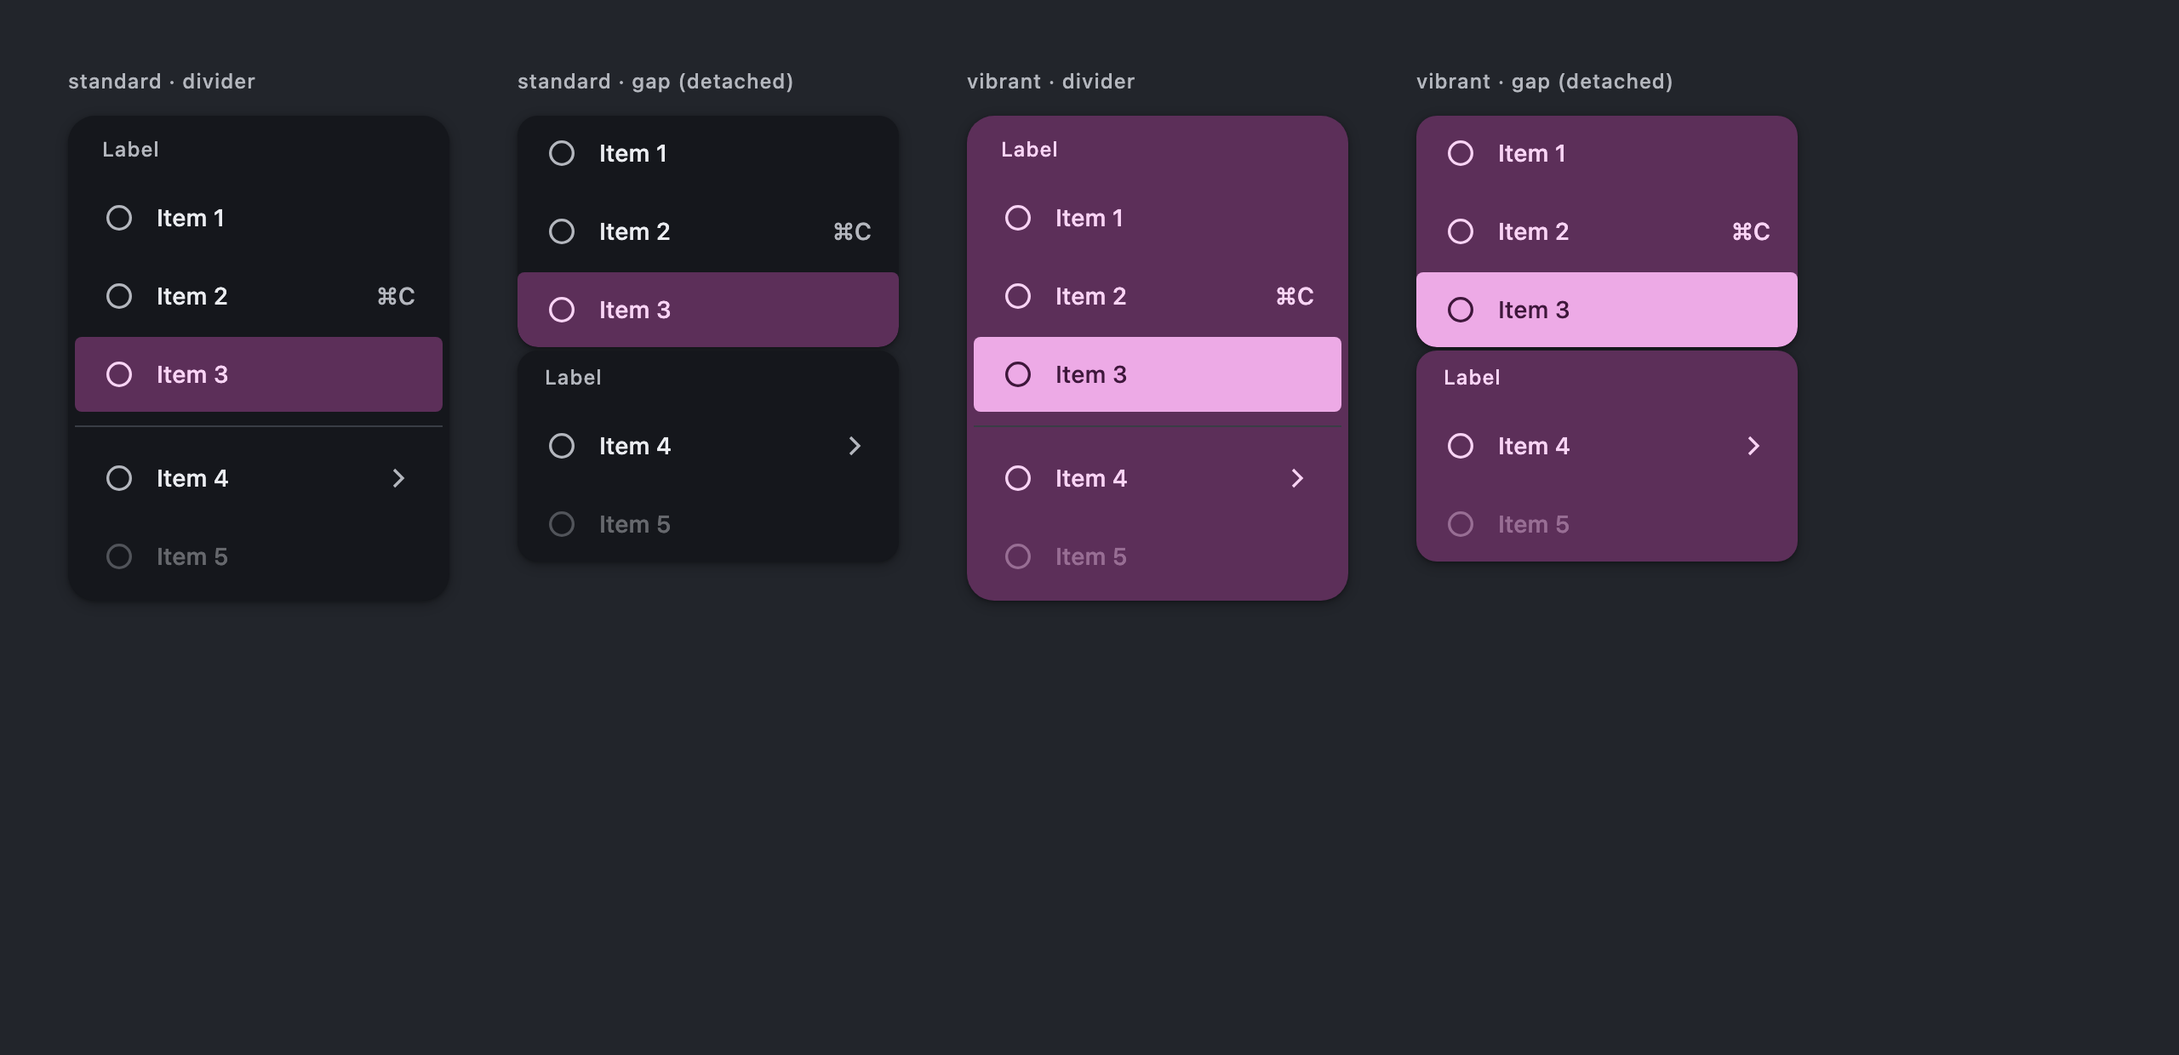
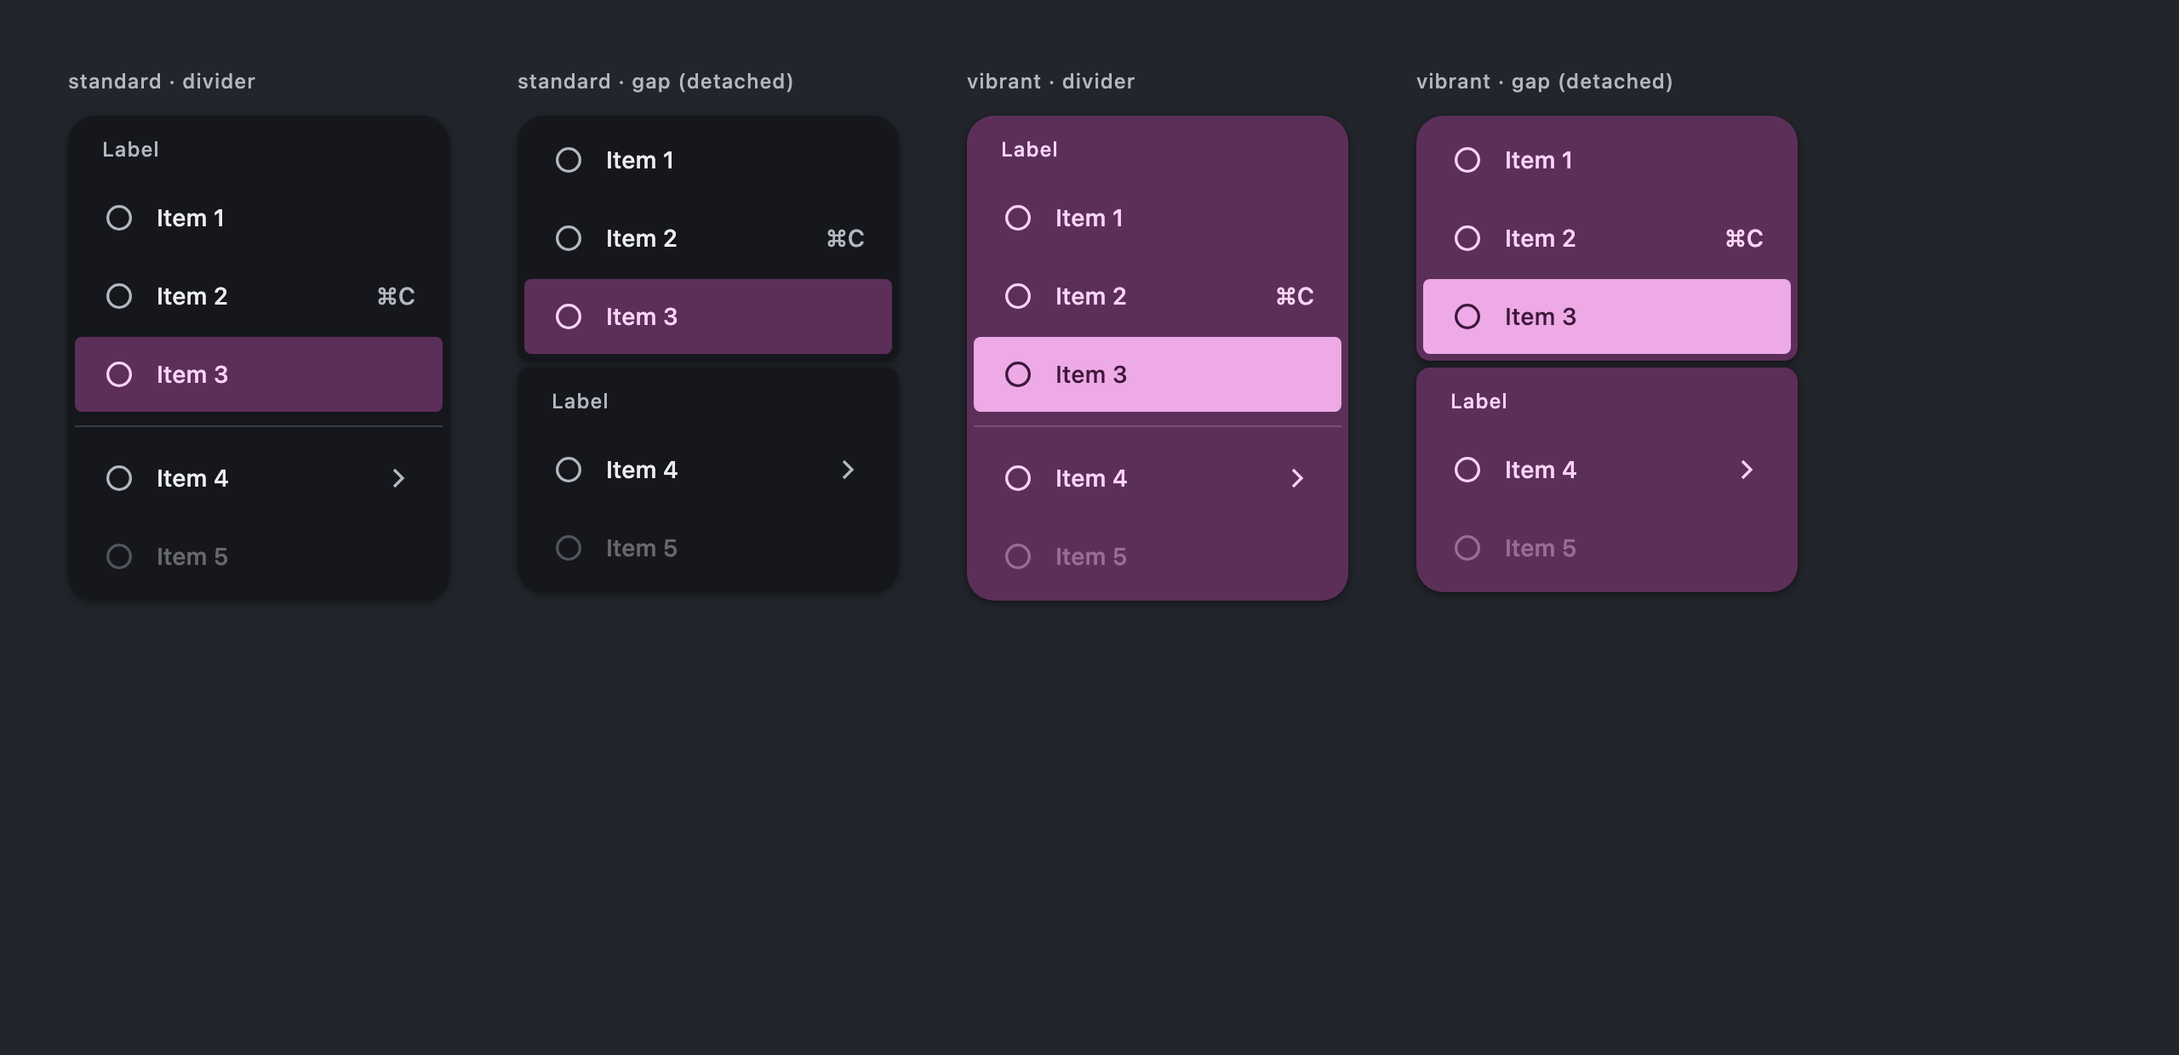
fix(ui): Correct the gap layout's corners, insets, gap, and divider role
Four corrections, all found by looking at the rendered result and at the spec
figure rather than at the token names.

**Group corners are not uniform.** A group is `group.shape` (corner.small, 8dp)
on the edges facing a gap and `container.shape` (corner.large, 16dp) where it
is the menu's own outer boundary — the figure marks 16 at the top of the menu
and 8 at the seam. Uniform corners read as two menus stacked; a tighter radius
at the seam is what makes them read as one menu that has been cut. This was
uniformly 12dp, which is neither token.

**Rows keep their inset.** A group carries the same 4dp padding the container
does, because a group is the container's surface repeated per section and the
gap is the only difference between the two layouts. Dropping the padding to
avoid a clipped corner was solving the wrong problem.

**The 12dp edge corner belongs to the parent, not the row.** It falls out of
the arithmetic: 16dp outer less the 4dp inset is 12dp, and 8dp at a seam less
the same inset is 4dp — the row's own `menu-item.shape`, which is why a seam
row needs no override and why the previous unconditional `first:`/`last:` on
the row overhung an 8dp corner and got shaved. "Am I on the menu's outer edge?"
is not a question a row can answer: at a seam it is its block's last child and
is not on the edge at all.

**The section gap is 4dp, deliberately off-spec.** Sampling the spec figure
pixel by pixel shows its seam really is the 2dp `md.comp.menus.gap` gives; what
[…]

diff --git a/packages/ui/src/primitives/menu-styles.ts b/packages/ui/src/primitives/menu-styles.ts
@@ -143,6 +143,13 @@ export const DEFAULT_MENU_SECTIONS: MenuSections = 'divider';
  * rows are discrete 4dp pills stacked 2dp apart on the container fill, and the measurements
  * figure's 48dp row bracket is that: the 44dp `menu-item.height` plus 2dp of gap top and bottom.
  *
+ * **Section gap — a deliberate deviation.** Between whole sections the gap is 4dp
+ * (`md.sys.measurement.space50`), not the 2dp the token gives. Sampling the spec figure shows its
+ * seam really is 2dp; what makes it read there is the lower block's drop shadow darkening the page
+ * behind it, and Docket's `level2` is lighter than the figure's, so 2dp of bare backdrop
+ * disappears. The gap is the entire point of this layout, so it takes the next measurement step
+ * up rather than being technically correct and invisible.
+ *
  * **Shape morphing.** The spec gives a menu two container shapes: `active.container.shape`
  * (16dp) while it holds focus, and `inactive.container.shape` (8dp) once it has revealed a
  * submenu. Radix portals `SubContent` out of its parent, so the open `SubTrigger` stays inside
@@ -155,7 +162,7 @@ export const DEFAULT_MENU_SECTIONS: MenuSections = 'divider';
  * step, and the spec's colour list for menus has no outline role in it.
  */
 const menuContentBase =
-  'z-[120] max-w-[calc(100vw-1.5rem)] flex flex-col gap-0.5 rounded-corner-lg ' +
+  'z-[120] max-w-[calc(100vw-1.5rem)] flex flex-col rounded-corner-lg ' +
   'has-data-[state=open]:rounded-corner-sm transition-[border-radius] ' +
   'data-[state=open]:animate-in data-[state=closed]:animate-out ' +
   'data-[state=closed]:fade-out-0 data-[state=open]:fade-in-0 ' +
@@ -198,12 +205,18 @@ export function menuContentClass(
     menuContentBase,
     MENU_WIDTH[width],
     sections === 'gap'
-      ? // Colour still cascades to the rows; only the painted surface moves to the groups.
+      ? // Colour still cascades to the rows; only the painted surface moves to the groups. The
+        // flex gap here separates whole sections rather than rows, so it is the wider step.
         cn(
-          'bg-transparent',
+          'gap-1 bg-transparent',
           variant === 'vibrant' ? 'text-on-tertiary-container' : 'text-on-surface',
         )
-      : cn('overflow-hidden p-1 shadow-level2', MENU_SURFACE[variant]),
+      : cn(
+          'gap-0.5 overflow-hidden p-1 shadow-level2',
+          '[&>[role^=menuitem]:first-child]:rounded-t-corner-md',
+          '[&>[role^=menuitem]:last-child]:rounded-b-corner-md',
+          MENU_SURFACE[variant],
+        ),
   );
 }
 
@@ -211,17 +224,19 @@ export function menuContentClass(
  * Structural classes for an interactive menu row, shared by both mappings.
  *
  * @remarks
- * `menu-item.shape` is `corner.extra-small` (4dp). The first and last rows take
- * `corner.medium` (12dp) on the edge facing the container and keep 4dp on the edge facing
- * their neighbour — that is what the spec's `inner-corner.corner-size` means, and it is what
- * makes a menu read as one shape rather than a stack of pills.
+ * `menu-item.shape` is `corner.extra-small` (4dp), and that is all a row sets for itself. The
+ * 12dp `first-child`/`last-child` corner is applied by the *parent* — {@link menuContentClass}
+ * under the divider layout, {@link menuGroup} under the gap one — because "am I on the menu's
+ * outer edge?" is a question only the parent can answer. A row at the bottom of the first block
+ * of a gapped menu is its block's last child and is not on the menu's edge at all; it keeps 4dp,
+ * which is exactly the spec's `inner-corner.corner-size`.
  *
  * Disabled is `opacity-38`, not `opacity-50`: 0.38 is the literal every MD3 disabled token
  * carries.
  */
 const menuItemBase =
   'relative flex min-h-11 cursor-default items-center gap-3 px-4 py-2 ' +
-  'rounded-corner-xs first:rounded-t-corner-md last:rounded-b-corner-md ' +
+  'rounded-corner-xs ' +
   'text-label-large transition-colors outline-none select-none ' +
   'data-[disabled]:pointer-events-none data-[disabled]:opacity-38 ' +
   '[&_svg]:pointer-events-none [&_svg]:size-5 [&_svg]:shrink-0';
@@ -418,23 +433,30 @@ export function menuLabel(variant: MenuVariant): string {
  * sections. Written as a transparent 8dp wrapper — which is what this was — it renders nothing
  * whatsoever, because an unfilled corner against an already-solid container is invisible.
  *
- * The corner is `corner.medium` (12dp), not the 8dp `md.comp.menus.group.shape` names. Two reasons
- * to prefer the figure here over the token: the measurements figure marks every one of these block
- * corners 12, and geometry forces it anyway — the first and last rows inside a group take
- * `menu-item.first-child.shape` (12dp), and a 12dp row cannot sit inside an 8dp block without its
- * corner overhanging the one that is meant to clip it. Recorded in
- * `docs/design/references/md3-menus.md` as a deliberate deviation.
+ * **The corners are not uniform.** A group is `corner.small` (8dp) — which is exactly what
+ * `md.comp.menus.group.shape` names — on the edges facing a gap, and `corner.large` (16dp) on the
+ * edges that are the menu's own outer boundary. The measurements figure marks 16 at the top of the
+ * menu and 8 at the seam between two blocks, and the difference is load-bearing: a smaller radius
+ * at the seam is what makes two blocks read as one menu that has been cut, rather than as two
+ * separate menus that happen to be stacked. A single group is both first and last, so it renders
+ * as an ordinary 16dp menu.
  *
- * The same geometry is why there is no padding here, and why `group.padding` (2dp) is spent on the
- * row gap instead. A 12dp row inset 2dp inside a 12dp block needs a 10dp corner to sit flush, and
- * there is no 10dp step; at 12dp it overhangs and `overflow-hidden` shaves the corner square. The
- * figure shows the selected row's fill meeting the block's corner exactly, with no inset, which is
- * what a zero-padding block gives.
+ * There is no padding, and `group.padding` (2dp) is spent on the row gap instead. The figure shows
+ * the selected row's fill meeting the block's corner exactly, with no inset; with padding, a row
+ * whose corner is larger than the block's remaining inner radius overhangs and `overflow-hidden`
+ * shaves it square.
  */
 export function menuGroup(variant: MenuVariant, sections: MenuSections = 'gap'): string {
   if (sections === 'divider') return '';
   return cn(
-    'flex flex-col gap-0.5 overflow-hidden rounded-corner-md shadow-level2',
+    'flex flex-col gap-0.5 overflow-hidden p-1 shadow-level2',
+    // Small at the seam, large at the menu's outer edge. A single group is both first and last,
+    // so it reads as an ordinary 16dp menu.
+    'rounded-corner-sm first:rounded-t-corner-lg last:rounded-b-corner-lg',
+    // Only the outermost rows of the outermost blocks sit on the menu's edge and take 12dp; a row
+    // at a seam keeps its own 4dp, which is what stops it overhanging the 8dp corner there.
+    'first:[&>[role^=menuitem]:first-child]:rounded-t-corner-md',
+    'last:[&>[role^=menuitem]:last-child]:rounded-b-corner-md',
     MENU_SURFACE[variant],
   );
 }
@@ -447,17 +469,26 @@ export function menuGroup(variant: MenuVariant, sections: MenuSections = 'gap'):
  *
  * @remarks
  * Neither expressive colour set defines a divider token — the anatomy names one and the colour
- * tables stop at 11 elements without it. `outline-variant` is the role the rest of the design
- * system uses for a hairline, and it is what the baseline menu's `divider.color`
- * (`surface-variant`) maps onto here. The 8dp of vertical space is the baseline spec's
- * `divider top/bottom padding`, which expressive does not restate.
+ * tables stop at 11 elements without it — so the role comes from the Divider component instead:
+ * `md.comp.divider.color` is `outline-variant` at `md.comp.divider.thickness` 1dp. (The baseline
+ * menu's `surface-variant` is the legacy value and is not what this uses.)
  *
- * Inset within the container's own padding rather than bled edge to edge, so it reads as a rule
- * *between* rows rather than a seam across the container.
+ * **Vibrant does not take `outline-variant`.** That role is drawn from the neutral-variant
+ * palette, and the Divider component assumes it sits on a neutral surface; on `tertiary-container`
+ * it is a grey hairline that belongs to no tonal family and, in dark, barely resolves at all. With
+ * no published token to defer to, the divider there is the surface's own `on-tertiary-container`
+ * held back to a hairline's weight — the same role every other mark on a vibrant menu uses.
+ *
+ * The 8dp of vertical space is the baseline spec's `divider top/bottom padding`, which expressive
+ * does not restate. Inset within the container's own padding rather than bled edge to edge, so it
+ * reads as a rule *between* rows rather than a seam across the container.
  */
-export function menuSeparator(_variant: MenuVariant): string {
+export function menuSeparator(variant: MenuVariant): string {
   // 6px here plus the container's own 2dp row gap is the baseline spec's 8dp of divider padding.
-  return 'bg-outline-variant my-1.5 h-px';
+  return cn(
+    'my-1.5 h-px',
+    variant === 'vibrant' ? 'bg-on-tertiary-container/20' : 'bg-outline-variant',
+  );
 }
 
 /**

diff --git a/packages/ui/tests/primitives/design-contract.test.tsx b/packages/ui/tests/primitives/design-contract.test.tsx
@@ -31,6 +31,7 @@ import {
   menuGroup,
   menuItemClass,
   menuLabel,
+  menuSeparator,
   menuSupporting,
   menuTrailingText,
 } from '../../src/primitives/menu-styles';
@@ -503,9 +504,14 @@ describe('MD3 menu spec — layout and shape', () => {
     // menu-item.selected.shape 12dp.
     const row = menuItemClass('standard');
     expect(row).toContain('rounded-corner-xs');
-    expect(row).toContain('first:rounded-t-corner-md');
-    expect(row).toContain('last:rounded-b-corner-md');
     expect(menuItemClass('standard', { selected: true })).toContain('rounded-corner-md');
+    // The 12dp edge corner belongs to whichever element owns the padded surface, because "is this
+    // row on the menu's outer edge?" is not a question the row can answer: at a seam in a gapped
+    // menu it is its block's last child and is not on the edge at all.
+    expect(row).not.toContain('first:rounded-t-corner-md');
+    expect(menuContentClass('standard', 'md', 'divider')).toContain(
+      '[&>[role^=menuitem]:first-child]:rounded-t-corner-md',
+    );
   });
 
   it('stacks rows 2dp apart, which is what gives a row its corner in the first place', () => {
@@ -514,6 +520,9 @@ describe('MD3 menu spec — layout and shape', () => {
     // and bottom. A flush list would not need a 4dp corner on each row.
     expect(menuContentClass('standard')).toContain('gap-0.5');
     expect(menuContentClass('standard')).toContain('flex flex-col');
+    // Rows inside a section keep the 2dp token; whole sections are separated by the wider step.
+    expect(menuGroup('standard', 'gap')).toContain('gap-0.5');
+    expect(menuContentClass('standard', 'md', 'gap')).toContain('gap-1');
   });
 
   it('paints each section as its own filled block under the gap layout', () => {
@@ -523,12 +532,25 @@ describe('MD3 menu spec — layout and shape', () => {
     const grouped = menuGroup('standard', 'gap');
     expect(grouped).toContain('bg-surface-container-low');
     expect(grouped).toContain('shadow-level2');
-    expect(grouped).toContain('rounded-corner-md');
     expect(grouped).toContain('gap-0.5');
-    // No padding: a 12dp row inset 2dp inside a 12dp block would need a 10dp corner to sit flush,
-    // and at 12dp it overhangs and gets shaved square by the block's own `overflow-hidden`. The
-    // 2dp of `group.padding` is spent on the row gap instead.
-    expect(grouped).not.toMatch(/(?:^|\s)p-0\.5(?:\s|$)/);
+    // A group is the container's surface repeated per section, so rows keep the same 4dp inset
+    // they have under the divider layout. The gap is the only difference between the two.
+    expect(grouped).toContain('p-1');
+    expect(grouped).toContain(MENU_METRICS.containerPadding);
+  });
+
+  it('rounds a group tighter at the seam than at the menu edge', () => {
+    // group.shape corner.small (8dp) on the edges facing a gap; container.shape corner.large
+    // (16dp) where the group IS the menu's outer boundary. Uniform corners would read as two
+    // separate menus stacked, rather than as one menu cut in two.
+    const grouped = menuGroup('standard', 'gap');
+    expect(grouped).toContain('rounded-corner-sm');
+    expect(grouped).toContain('first:rounded-t-corner-lg');
+    expect(grouped).toContain('last:rounded-b-corner-lg');
+    // 16dp outer less the 4dp inset is the 12dp the outermost rows take; 8dp at the seam less the
+    // same inset is 4dp, which is the row's own shape and why a seam row needs no override.
+    expect(grouped).toContain('first:[&>[role^=menuitem]:first-child]:rounded-t-corner-md');
+    expect(grouped).toContain('last:[&>[role^=menuitem]:last-child]:rounded-b-corner-md');
     expect(menuGroup('vibrant', 'gap')).toContain('bg-tertiary-container');
   });
 
@@ -615,6 +637,14 @@ describe('MD3 menu spec — standard colour mapping', () => {
     expect(menuItemClass('standard')).not.toContain('opacity-50');
   });
 
+  it('draws the divider in the Divider component role, not the baseline menu one', () => {
+    // Neither expressive colour set publishes a divider token, so the role comes from
+    // md.comp.divider.color = outline-variant. The baseline menu's surface-variant is legacy.
+    expect(menuSeparator('standard')).toContain('bg-outline-variant');
+    expect(menuSeparator('standard')).toContain('h-px');
+    expect(menuSeparator('standard')).not.toContain('surface-variant"');
+  });
+
   it('tones section labels and supporting content to on-surface-variant', () => {
     expect(menuLabel('standard')).toContain('text-on-surface-variant');
     expect(menuSupporting('standard')).toContain('text-on-surface-variant');
@@ -651,6 +681,13 @@ describe('MD3 menu spec — vibrant colour mapping', () => {
     expect(row).toContain('hover:bg-on-tertiary-container/8');
     expect(row).toContain('focus:not-hover:bg-on-tertiary-container/10');
     expect(row).toContain('active:bg-on-tertiary-container/10');
+  });
+
+  it('keeps the divider inside the tertiary family rather than on a neutral outline', () => {
+    // outline-variant is a neutral-variant role and the Divider component assumes a neutral
+    // surface; on tertiary-container it is a grey hairline belonging to no tonal family.
+    expect(menuSeparator('vibrant')).toContain('bg-on-tertiary-container/20');
+    expect(menuSeparator('vibrant')).not.toContain('outline-variant');
   });
 
   it('mixes a selected row state layer into its own container, not into the menu behind it', () => {

diff --git a/docs/design/references/md3-menus.md b/docs/design/references/md3-menus.md
@@ -123,10 +123,30 @@ that is already one solid block, renders nothing whatsoever. Under this layout t
 container's fill, padding, elevation, and clipping; the container keeps only its size, stacking,
 motion, and scrolling.
 
-**Deviation.** `group.shape` is `corner.small` (8dp), and Docket uses `corner.medium` (12dp)
-instead. The measurements figure marks every one of these block corners 12, and geometry forces it
-regardless: the first and last rows inside a group take `menu-item.first-child.shape` (12dp), and a
-12dp row cannot sit inside an 8dp block without its corner overhanging the one meant to clip it.
+**Section gap.** Between whole sections Docket uses 4dp (`space50`), not the 2dp
+`md.comp.menus.gap` gives. Sampling the spec figure pixel by pixel shows its seam really is 2dp;
+what makes it read there is the lower block's drop shadow darkening the page behind it, and
+Docket's `level2` is lighter, so 2dp of bare backdrop disappears. The gap is the entire point of
+this layout, so it takes the next measurement step rather than being correct and invisible. Rows
+inside a section keep the 2dp token.
+
+**Group corners are not uniform.** A group is `group.shape` (`corner.small`, 8dp) on the edges
+facing a gap and `container.shape` (`corner.large`, 16dp) where it is the menu's own outer
+boundary. The figure marks 16 at the top of the menu and 8 at the seam, and the difference carries
+meaning: a tighter radius at the seam is what makes two blocks read as one menu that has been cut,
+rather than as two menus that happen to be stacked. A single group is both first and last, so it
+renders as an ordinary 16dp menu.
+
+The 12dp `menu-item.first-child.shape` follows from that arithmetic rather than being set on the
+row: 16dp outer less the 4dp inset is 12dp, and 8dp at a seam less the same inset is 4dp — the
+row's own `menu-item.shape`, which is why a row at a seam needs no override. The edge corner is
+applied by whichever element owns the padded surface, not by the row, because "am I on the menu's
+outer edge?" is not a question a row can answer: a row at a seam is its block's last child and is
+not on the edge.
+
+**Group padding.** A group carries the same 4dp inset the container does — a group is the
+container's surface repeated per section, and the gap is the only difference between the two
+layouts.
 
 ### Typography
 
@@ -209,10 +229,16 @@ Active: state layer `on-tertiary-container` @ 0.08. Disabled: opacity 0.38.
 ## Known gaps in the spec itself
 
 **Divider colour.** The anatomy diagram lists an optional divider, and the measurements figure
-shows one, but neither expressive colour set defines a divider token. `Menu (baseline)` gives
-`divider.color = surface-variant` and `divider.height = 1dp`. Docket resolves this to
-`outline-variant` in both mappings, which is the role the rest of the design system uses for a
-hairline rule.
+shows one, but neither expressive colour set defines a divider token. The role therefore comes from
+the Divider component: `md.comp.divider.color` is `outline-variant` at `md.comp.divider.thickness`
+1dp. (`Menu (baseline)` gives `surface-variant`; that is the legacy value and Docket does not use
+it.)
+
+Vibrant is the exception. `outline-variant` is drawn from the neutral-variant palette and the
+Divider component assumes a neutral surface, so on `tertiary-container` it is a grey hairline that
+belongs to no tonal family and barely resolves in dark. With no published token to defer to, the
+vibrant divider is `on-tertiary-container` at 20% — the surface's own "on" role, held to a
+hairline's weight, which is what every other mark on a vibrant menu uses.
 
 **Badge.** The anatomy names an optional badge; no expressive token set defines its colour or
 shape. Docket tints it with the mapping's supporting-text role.
